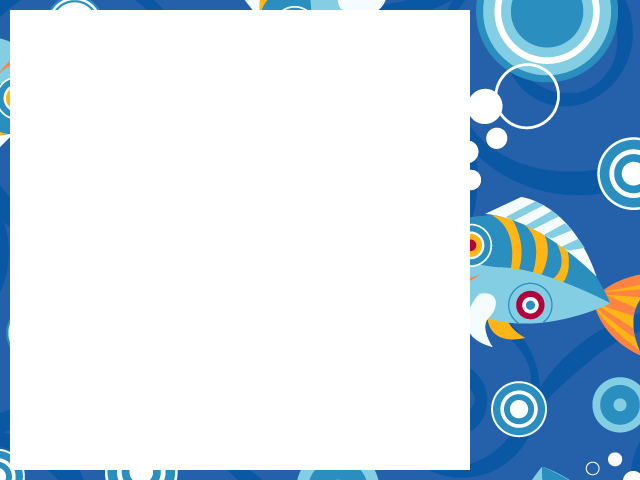
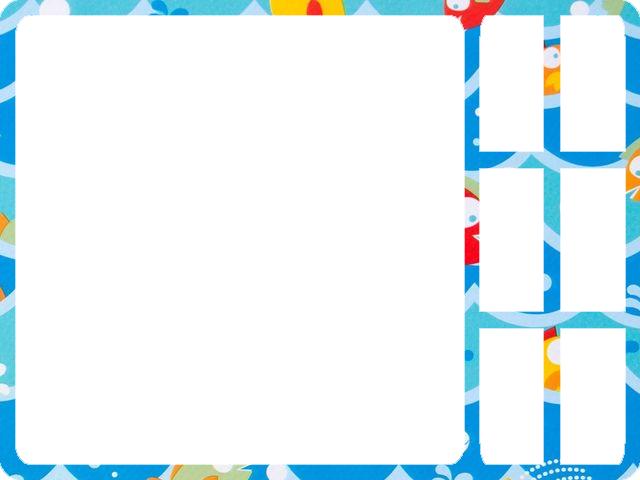
New desktop theme, max zoom, background image.

diff --git a/controllers/entities/playPanel.js b/controllers/entities/playPanel.js
@@ -35,6 +35,12 @@ function PlayPanel()
 
     PlayPanel.prototype.render = function () 
     {
+        renderRectangleFilled( 
+                    this.m_viewParent.m_canvasEx.m_canvas, 
+                    this.m_viewParent.m_canvasEx.m_context, 
+                    this.m_x1, this.m_y1,
+                    this.m_width, this.m_height, "gray");
+
         drawImageScaled( 
                     this.m_viewParent.m_canvasEx.m_canvas, 
                     this.m_viewParent.m_canvasEx.m_context, 

diff --git a/controllers/entities/desktop.js b/controllers/entities/desktop.js
@@ -47,13 +47,13 @@ function Desktop()
     {
         this.m_playPanel.render();
 
+        this.m_piecesPanel.render();
+
         drawImageTransparent( 
             this.m_viewParent.m_canvasEx.m_canvas, 
             this.m_viewParent.m_canvasEx.m_context, 
             this.m_desktopBitmap, 
             0, 0, 1);
-
-        this.m_piecesPanel.render();
 
         this.renderPieces() 
     };

diff --git a/controllers/puzzleController.js b/controllers/puzzleController.js
@@ -9,7 +9,7 @@ window.onload = function()
 
 	// Create main view helper.
 	viewMngr = new ViewManager(document, window);
-	viewMngr.initCanvasById('idCanvas', false);
+	viewMngr.initCanvasById('idCanvas', true);
 	viewMngr.enableProgressBarWhenLoadingResources();
 
 	// Enable using bitmaps

diff --git a/views/puzzleView.html b/views/puzzleView.html
@@ -52,7 +52,7 @@
 			<script src="../controllers/puzzleController.js"></script>
 		</head>
 
-		<body bgcolor="#FFFFFF">
+		<body background="background_green.jpg">
 			<canvas id="idCanvas" width="640" height="480" style="solid #FF0000;"></canvas>
 		</body>
 	</html>

diff --git a/config/globalDefinitions.js b/config/globalDefinitions.js
@@ -21,7 +21,7 @@ function MainLoopState()
 { 
 }
 
-Globals.C_APPLICATION_TITLE_AND_VERSION = 'Puzzle v1.0.5';
+Globals.C_APPLICATION_TITLE_AND_VERSION = 'Puzzle v1.1.0';
 function Globals() 
 { 
     this.m_mainLoopState = new MainLoopState(); 
